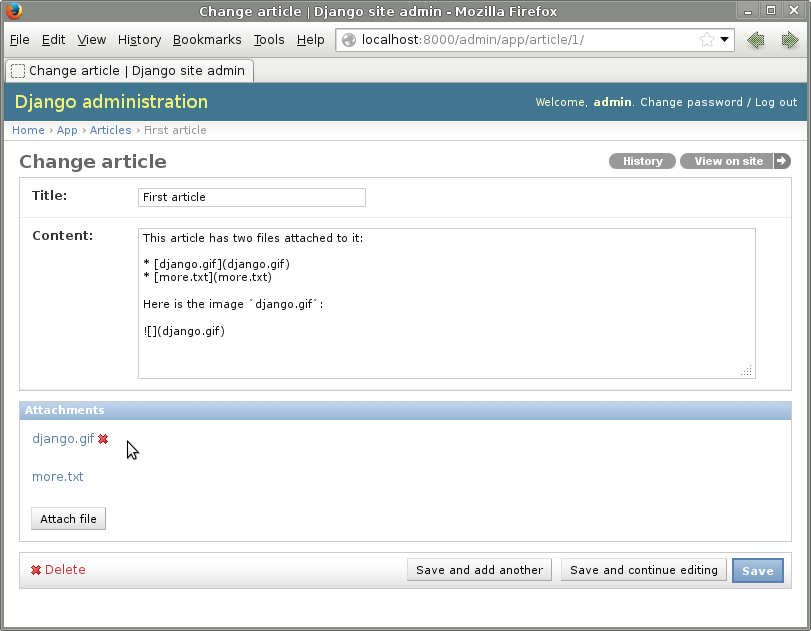
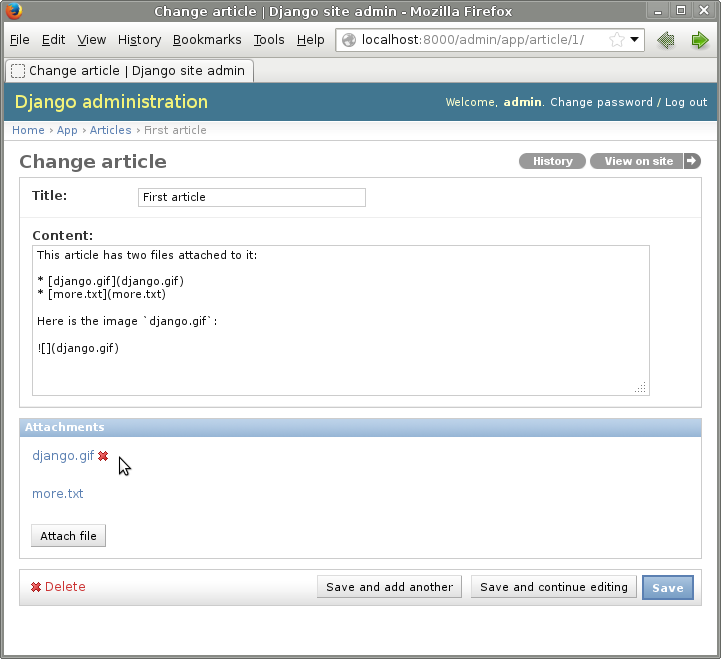
New screenshots with better size

Changed region(s): [[0.0, 0.0, 1.0, 0.6022], [0.0, 0.6323, 0.9764, 0.9334], [0.8849, 0.5721, 0.9459, 0.6022]]

diff --git a/README.md b/README.md
@@ -163,9 +163,9 @@ AttachmentInline displays a list of attachments on a model change page.
 Attachments can be added by clicking the `Attach file` button, and removed
 by clicking a cross next to a file name.
 
-[![](https://github.com/peterkuma/django-attach/raw/master/screenshots/1-small.png)](https://github.com/peterkuma/django-attach/raw/master/screenshots/1.png)
+![](https://github.com/peterkuma/django-attach/raw/master/screenshots/1.png)
 
 New attachments are uploaded asynchronously when form is submitted. Upload
 progress is shown.
 
-[![](https://github.com/peterkuma/django-attach/raw/master/screenshots/2-small.png)](https://github.com/peterkuma/django-attach/raw/master/screenshots/2.png)
+![](https://github.com/peterkuma/django-attach/raw/master/screenshots/2.png)
